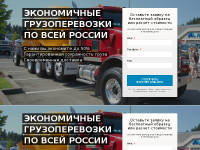
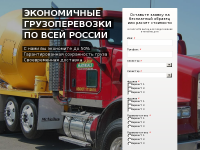
track-list view ready

diff --git a/view/editor/ui/order.js b/view/editor/ui/order.js
@@ -1,22 +1,16 @@
 lp.order = lp.block.extendOptions({
     init: function () {
+        /*
         var jq = Component.previewFrame.window.$;
         if(jq){
             jq('form .form_field_submit').click( function(event){  
                 jq('form').formValidateSubmit(event);
                 event.preventDefault();
-            });
+            });            
         }
+        */
     },    
     change: function () {
-		var jq = Component.previewFrame.window.$;
-        if(jq){
-            jq('form .form_field_submit').click( function(event){  
-                jq('form').formValidateSubmit(event);
-                event.preventDefault();
-            });
-        }        
-        
         //if для того, чтобы выполнять изменения фона только при выбранной картинке
         if(this.value.background){
             this.element.find(".order_"+this.value.variant).css({

diff --git a/view/editor/ui/timer.js b/view/editor/ui/timer.js
@@ -4,21 +4,10 @@ lp.timer = lp.block.extendOptions({
         var jq = Component.previewFrame.window.$;
         if (jq) {
             jq(countdown).lpCounty();
-            jq('form .form_field_submit').click( function(event){  
-                jq('form').formValidateSubmit(event);
-                event.preventDefault();
-            });
         }
     },	
 	change: function(){         
-        var jq = Component.previewFrame.window.$;
-        if(jq){
-            jq('form .form_field_submit').click( function(event){  
-                jq('form').formValidateSubmit(event);
-                event.preventDefault();
-            });
-        }         
-        
+        var jq = Component.previewFrame.window.$;        
         this.variant.find(".title_2").toggle(this.value.show_title_2);
 		
 		if (this.value.variant == 1) { 

diff --git a/view/editor/ui/header.js b/view/editor/ui/header.js
@@ -1,22 +1,7 @@
 lp.header = lp.block.extendOptions({
     init: function () {
-        var jq = Component.previewFrame.window.$;
-        if(jq){
-            jq('form .form_field_submit').click( function(event){  
-                jq('form').formValidateSubmit(event);
-                event.preventDefault();
-            });
-        }
     },    
     change: function () {
-		var jq = Component.previewFrame.window.$;
-        if(jq){
-            jq('form .form_field_submit').click( function(event){  
-                jq('form').formValidateSubmit(event);
-                event.preventDefault();
-            });
-        }  
-        
         this.cmp.element.find(".header").css({
             background: this.value.background || '',
         });  

diff --git a/view/editor/ui/internal/formOrder.js b/view/editor/ui/internal/formOrder.js
@@ -97,7 +97,7 @@ lp.formControls.select = teacss.ui.composite.extendOptions({
             $('<label>').append(
                 $('<div class="field_title">').text(val.label).append(star_required),
                 show_desc,
-                $('<select class="form_field_select">'),
+                select =  $('<select class="form_field_select">'),
                 $('<div class="error">')
             )
         );

diff --git a/view/editor/style/style.css b/view/editor/style/style.css
@@ -32,7 +32,7 @@
 
 .error_input{
   border: 1px solid #EA493C !important;
-  background-color: #FFE2E0 !important;
+  /*background-color: #FFE2E0 !important;*/
 }
 
 .error{

diff --git a/modules/LPCandy/lib/LPCandy/Controllers/Track.php b/modules/LPCandy/lib/LPCandy/Controllers/Track.php
@@ -12,13 +12,32 @@ class Track extends Base {
         $list = \LPCandy\Models\Track::findBy(array('user'=>$this->user));
         
         $this->data['fields'] = array(
-            'id' => _t('#'),
+            'id' => _t('№'),
             'date' => _t('date'),
             'data' => _t('data')
         );
         
         $this->data['field_filters']['data'] = function ($val) {
-            return "<pre>".print_r($val,true)."</pre>";
+            
+            $data;            
+            $data.= "<div>Идентификатор  $val[pageId]</div>";
+            $data.= "<div>IP адресс клиента  $val[ipClient]</div><br>";            
+            $data.= "<div><u>Данные заявки</u></div>";            
+            if(!$val['values']) return "Данных нет";
+            foreach($val['values'] as $key => $value){
+                if(empty($value)) $value = '<i>не заполнено</i>';
+                if(is_array($value)){ 
+                    $data.= "<div><b>".$key."</b>  ";
+                    foreach($value as $v){
+                        $data.= "<p style='text-indent: 1.5em; margin :0'>".$v."</p>";
+                    }
+                    $data.= "</div>";
+                } else {
+                    $data.= "<div><b>".$key."</b>  ".$value."</div>";
+                }
+            }
+            
+            return $data;
         };
         
         $this->data['list'] = $list;

diff --git a/modules/LPCandy/lib/LPCandy/Controllers/Front.php b/modules/LPCandy/lib/LPCandy/Controllers/Front.php
@@ -45,7 +45,7 @@ class Front extends Base {
         $track = new \LPCandy\Models\Track;
 
         $track->user = $page->user;        
-        //$track->data = $data;        
+        $track->data = $data;        
         $track->save();
     }
 }
